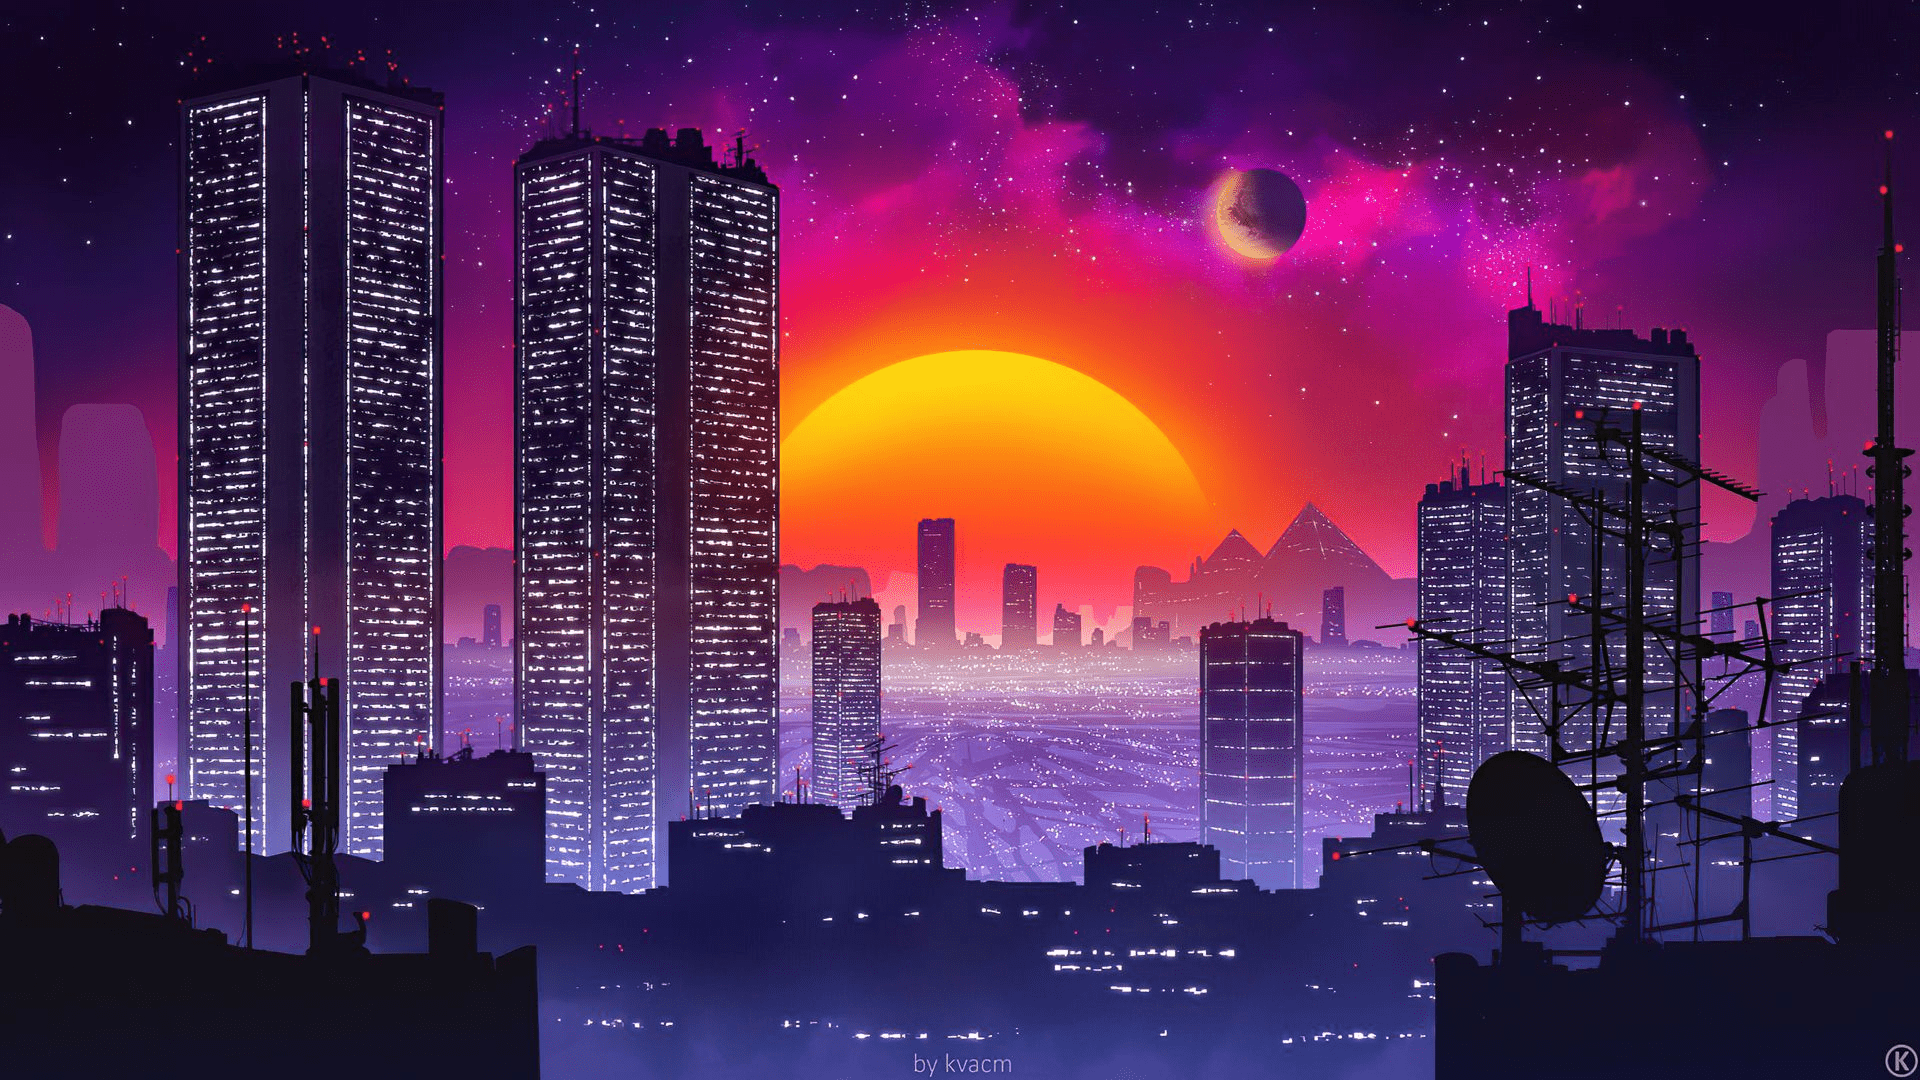
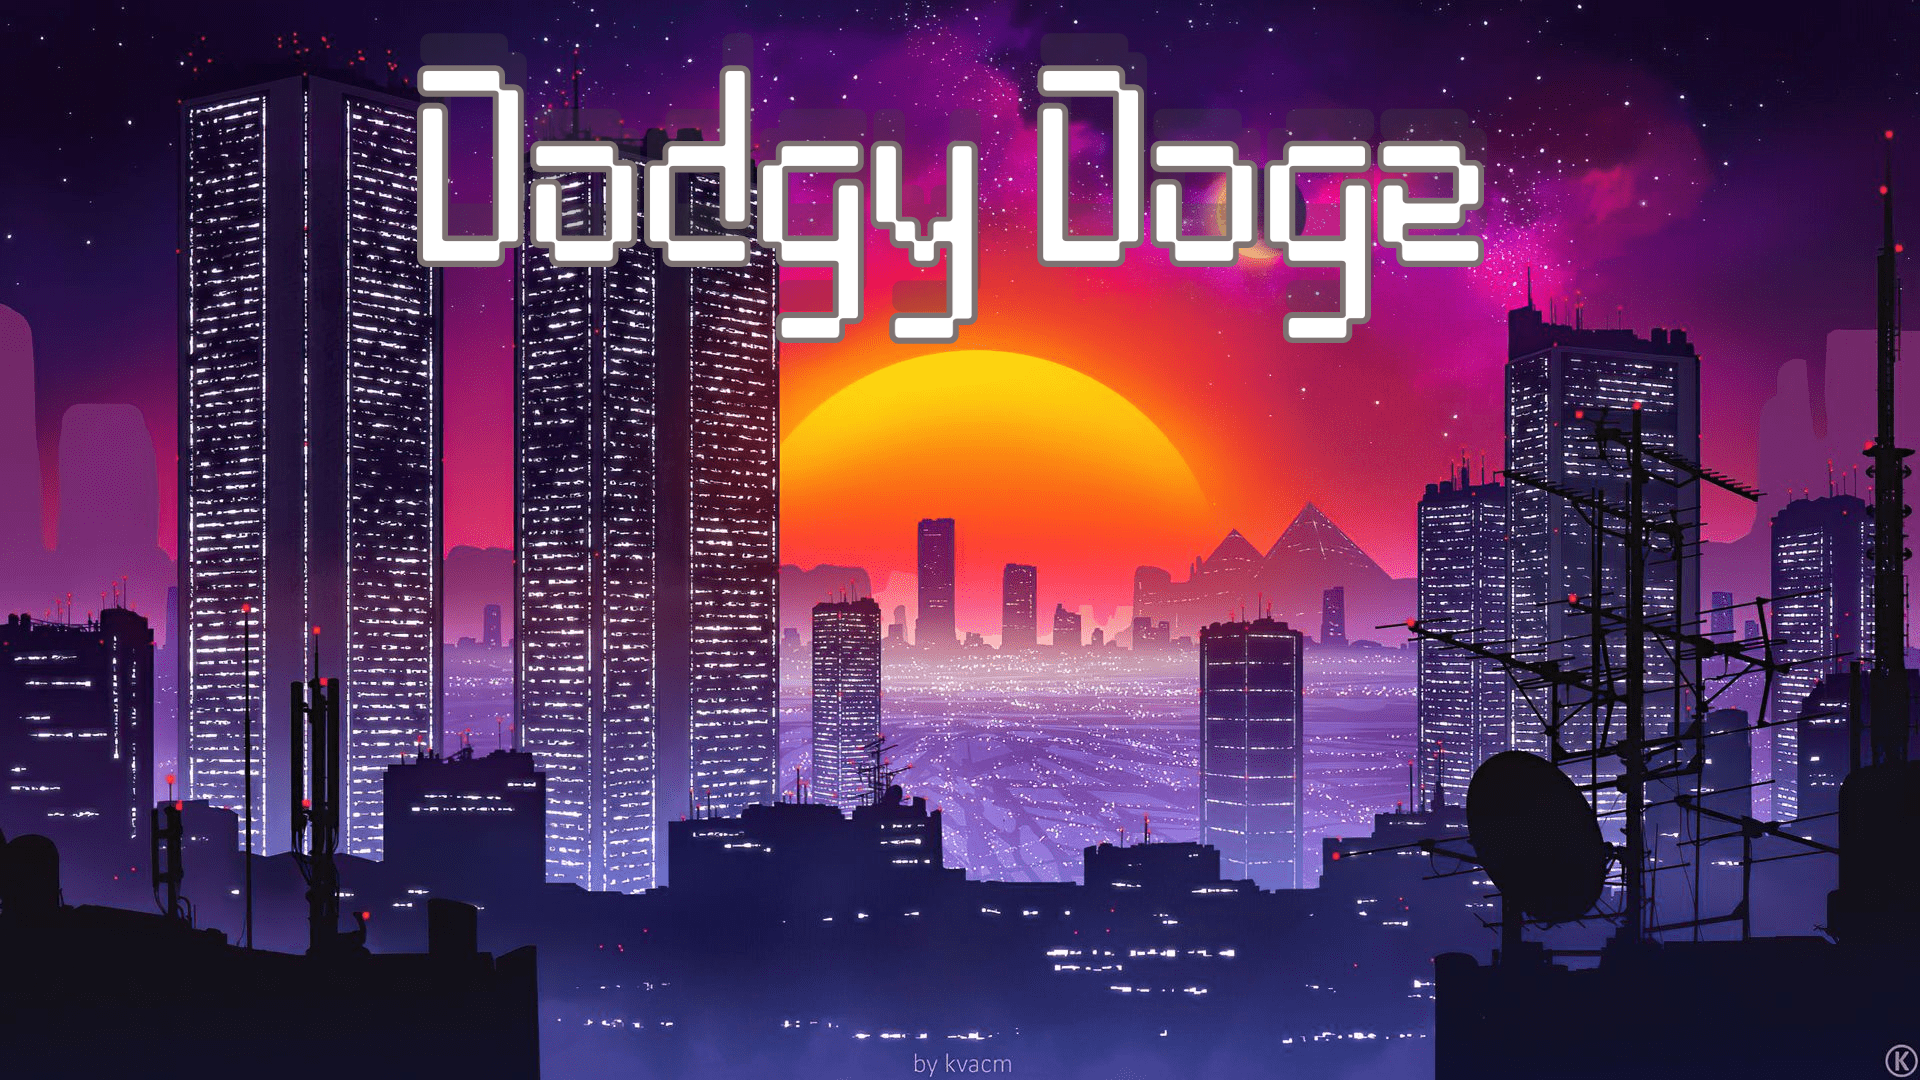
finish

Changed region(s): [[0.2188, 0.0611, 0.7812, 0.3361]]

diff --git a/js/menuScene.js b/js/menuScene.js
@@ -18,6 +18,7 @@ class MenuScene extends Phaser.Scene {
 
     this.menuSceneBackgroundImage = null
     this.startButton = null
+    this.menuSceneText = null
   }
 
   /**
